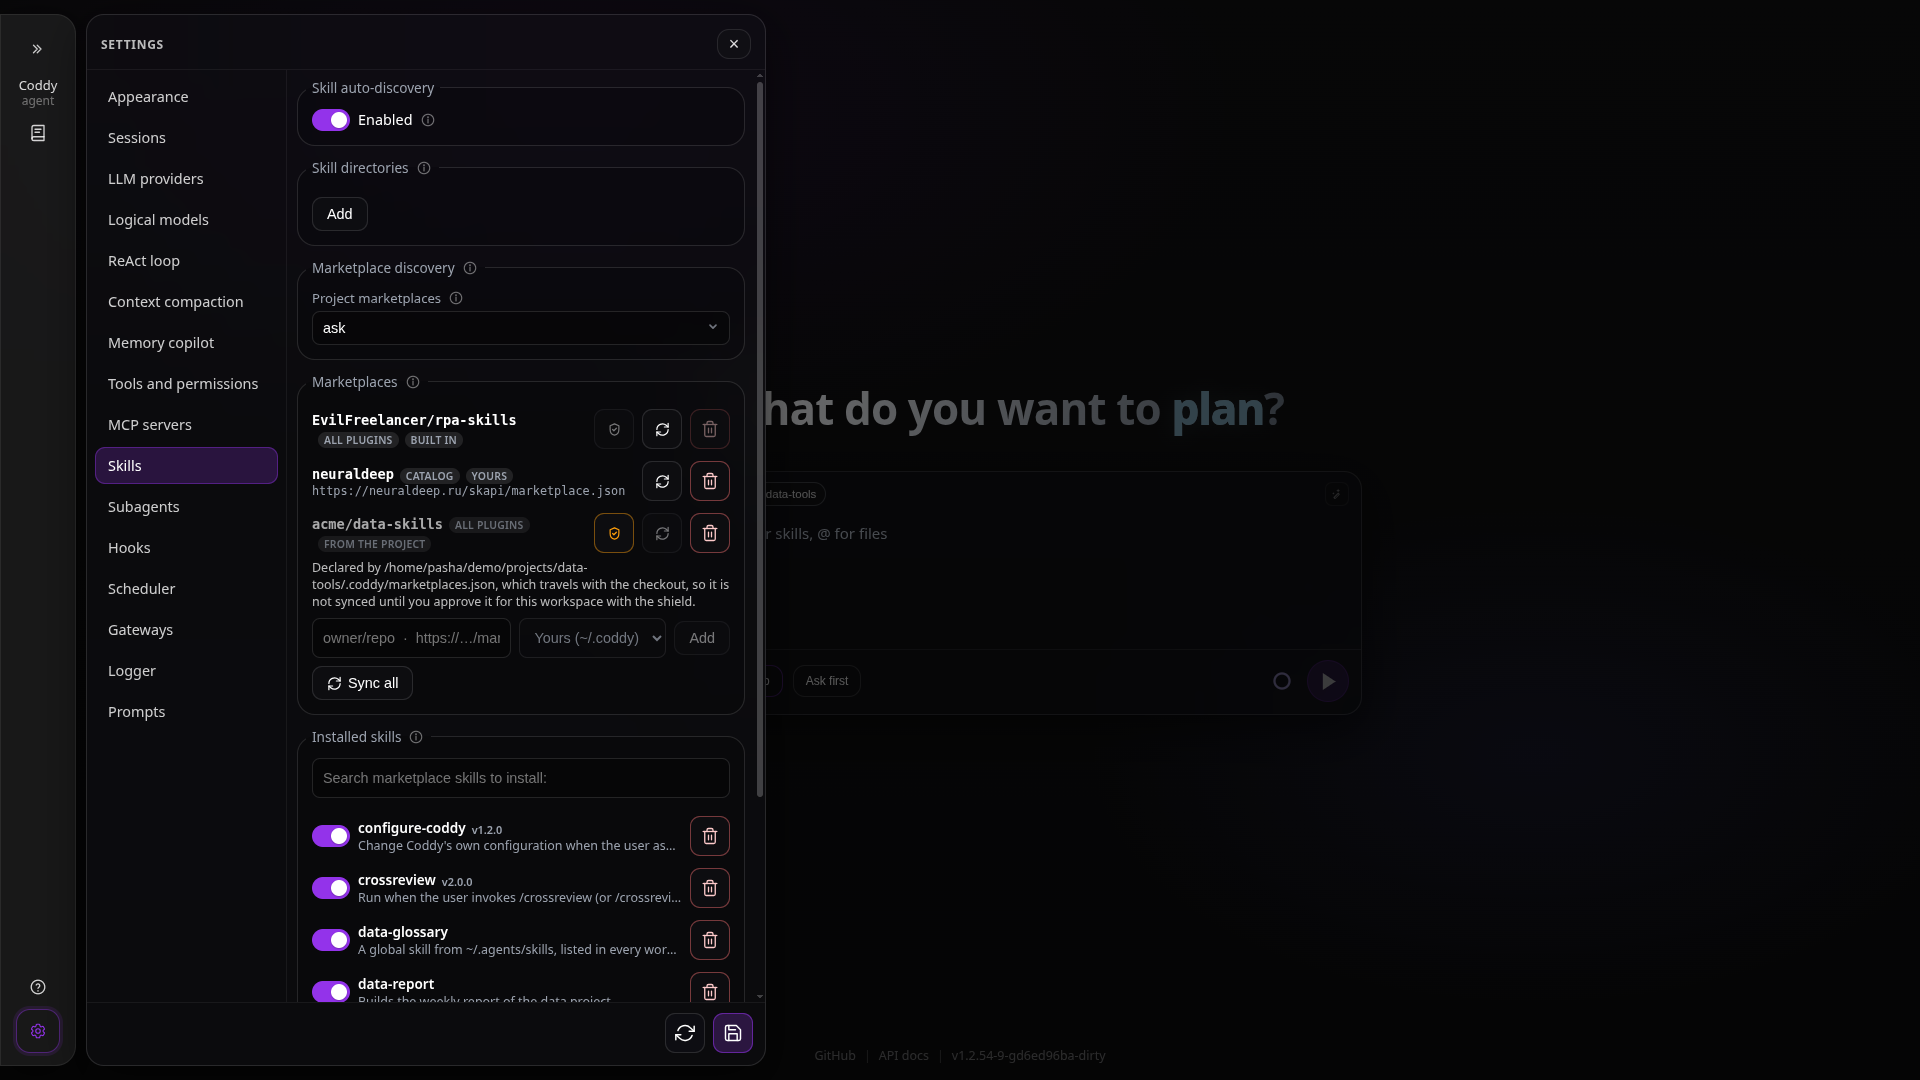
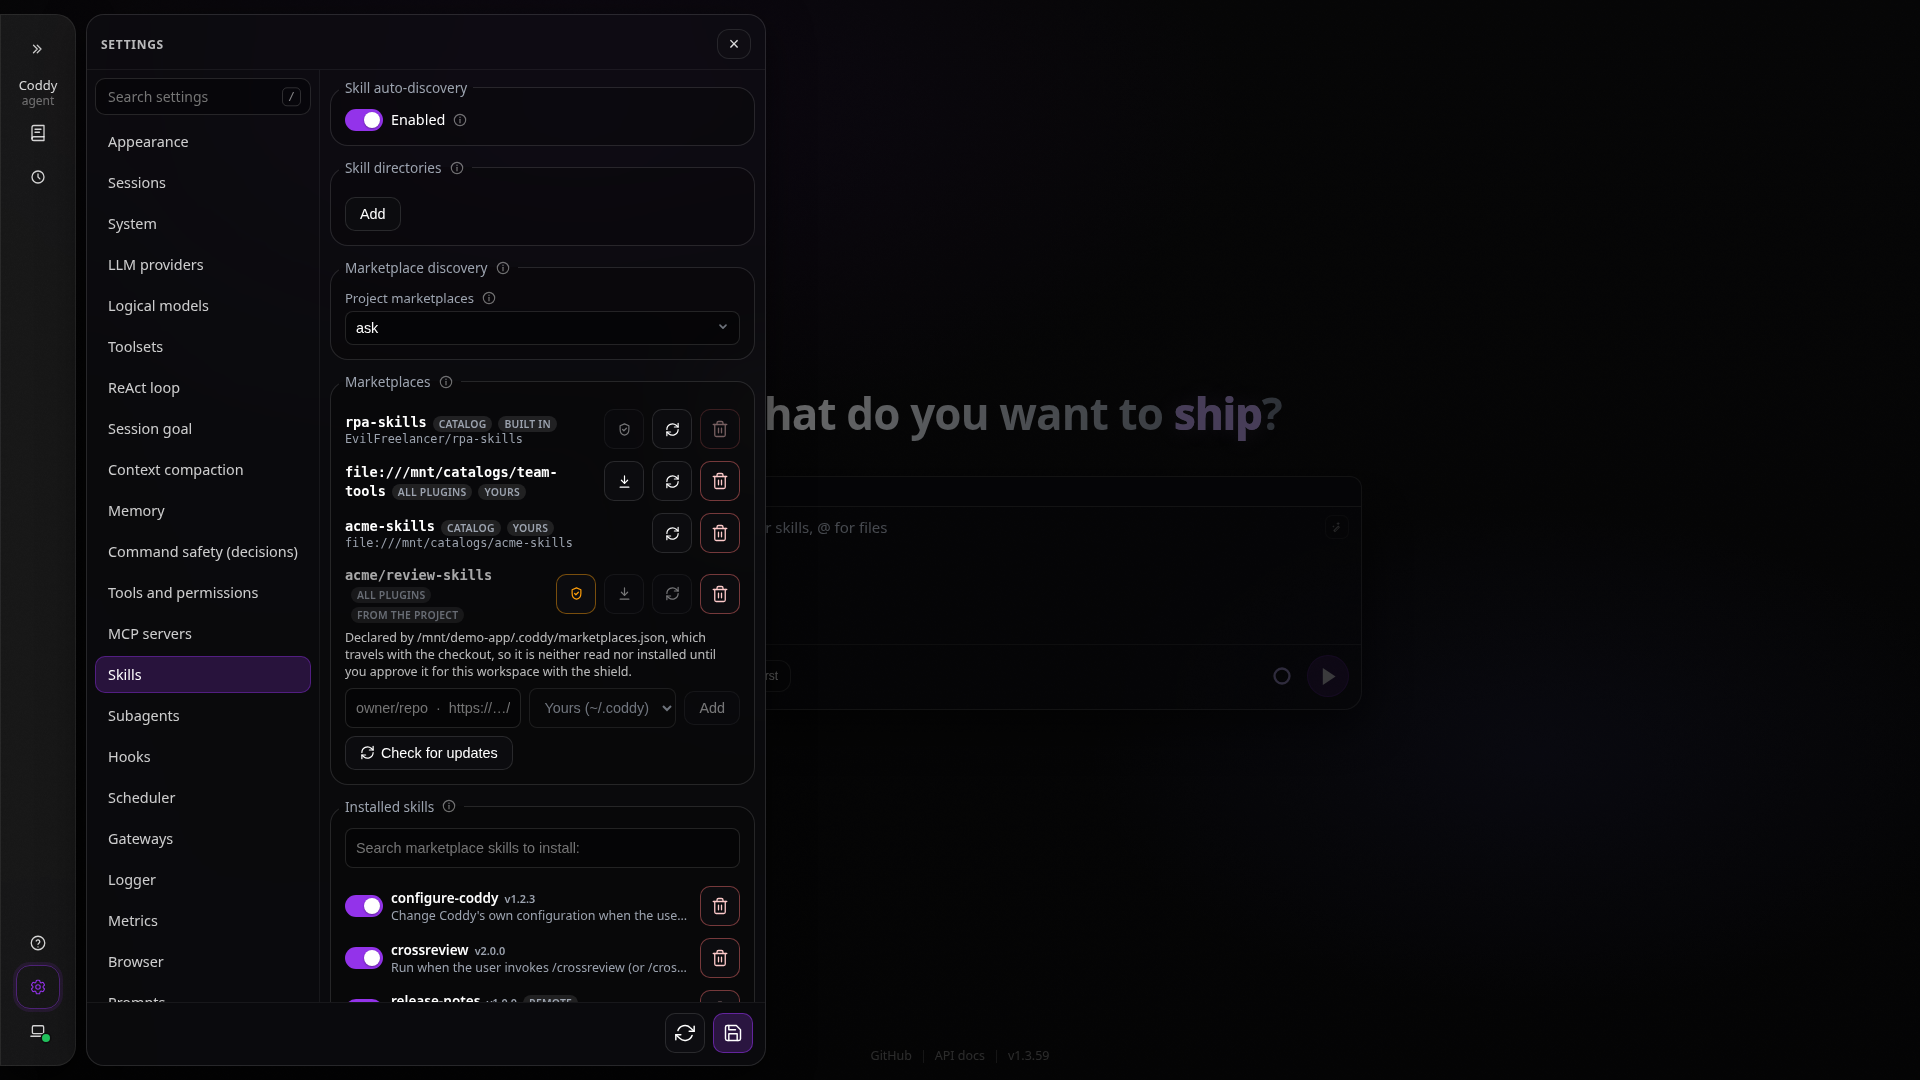
docs(skills): screenshots of the marketplaces list that checks and installs

diff --git a/docs/assets/INDEX.md b/docs/assets/INDEX.md
@@ -30,7 +30,7 @@ Screenshots taken as evidence for a pull request do not belong here. Attach them
 Generated by `make docs`. "Used by" lists the files that reference the asset.
 
 <!-- docsgen:assets:start -->
-300 files, 68.6 MB in total.
+300 files, 69.2 MB in total.
 
 ### docs/assets
 
@@ -81,7 +81,7 @@ Generated by `make docs`. "Used by" lists the files that reference the asset.
 | `screenshot-fullhd-settings-appearance.png` | 144 KB | docs/ru/surfaces/web-ui.md, docs/surfaces/web-ui.md |
 | `screenshot-fullhd-settings-hooks.png` | 183 KB | docs/ru/surfaces/web-ui.md, docs/surfaces/web-ui.md |
 | `screenshot-fullhd-settings-mcp.png` | 196 KB | docs/operate/security.md, docs/ru/operate/security.md, docs/ru/surfaces/web-ui.md, docs/surfaces/web-ui.md |
-| `screenshot-fullhd-settings-skills.png` | 297 KB | docs/features/skills.md, docs/ru/features/skills.md |
+| `screenshot-fullhd-settings-skills.png` | 676 KB | docs/features/skills.md, docs/ru/features/skills.md |
 | `screenshot-fullhd-settings.png` | 186 KB | docs/ru/surfaces/web-ui.md, docs/surfaces/web-ui.md |
 | `screenshot-fullhd-start.png` | 290 KB | README.md |
 | `screenshot-fullhd-tasks.png` | 312 KB | docs/ru/surfaces/web-ui.md, docs/surfaces/web-ui.md |
@@ -373,7 +373,7 @@ Generated by `make docs`. "Used by" lists the files that reference the asset.
 
 | File | Size | Used by |
 |------|------|---------|
-| `skills-marketplaces-dark-1280.png` | 206 KB | docs/features/skills.md, docs/ru/features/skills.md, docs/ru/surfaces/web-ui.md, docs/surfaces/web-ui.md |
+| `skills-marketplaces-dark-1280.png` | 404 KB | docs/features/skills.md, docs/ru/features/skills.md, docs/ru/surfaces/web-ui.md, docs/surfaces/web-ui.md |
 
 ### docs/assets/subagents
 

diff --git a/docs/ru/features/skills.md b/docs/ru/features/skills.md
@@ -50,7 +50,7 @@ coddy plugin update                          # install the newer versions the re
 
 ![Настройки, Навыки - список маркетплейсов со встроенным источником, вашим источником и источником проекта, который ждёт одобрения](../../assets/skills/skills-marketplaces-dark-1280.png)
 
-*Настройки → Навыки → Маркетплейсы - встроенный каталог `rpa-skills` со щитом постоянного доверия, каталог из вашего собственного файла и источник, который объявляет проект, задержанный, пока щит не одобрит его для этой рабочей папки.*
+*Настройки → Навыки → Маркетплейсы - встроенный каталог `rpa-skills` со щитом постоянного доверия, источник с кнопкой установки и каталог из вашего собственного файла и источник, который объявляет проект, задержанный, пока щит не одобрит его для этой рабочей папки.*
 
 ## Где взять скилы
 

diff --git a/docs/features/skills.md b/docs/features/skills.md
@@ -92,8 +92,8 @@ control.
 ![Settings, Skills: the marketplaces list with the built-in source, one of yours and a project source awaiting approval](../assets/skills/skills-marketplaces-dark-1280.png)
 
 *Settings → Skills → Marketplaces: the built-in catalogue `rpa-skills` with its always-trusted
-shield, a catalogue from your own file, and a source the project declares, held until the shield
-approves it for this workspace.*
+shield, a source with its install button and a catalogue from your own file, and a source the
+project declares, held until the shield approves it for this workspace.*
 
 ## Where to get skills
 
